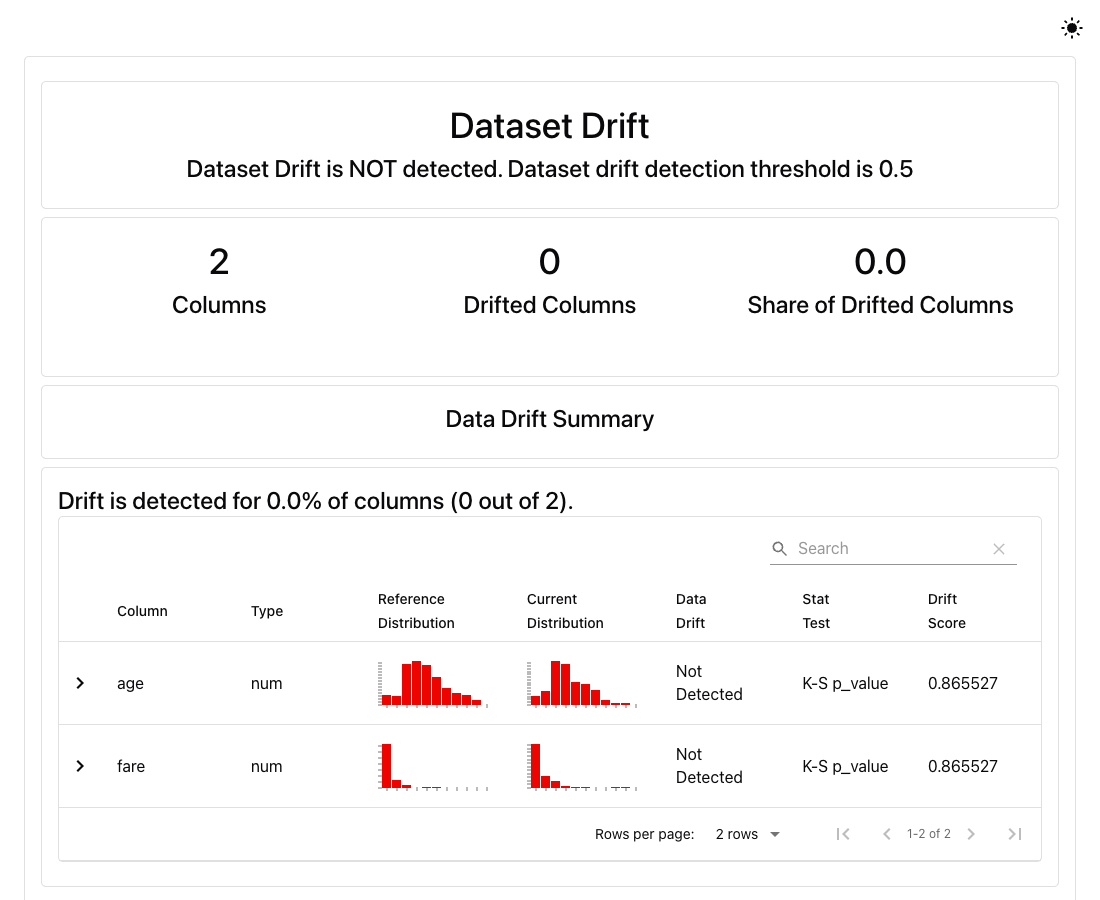
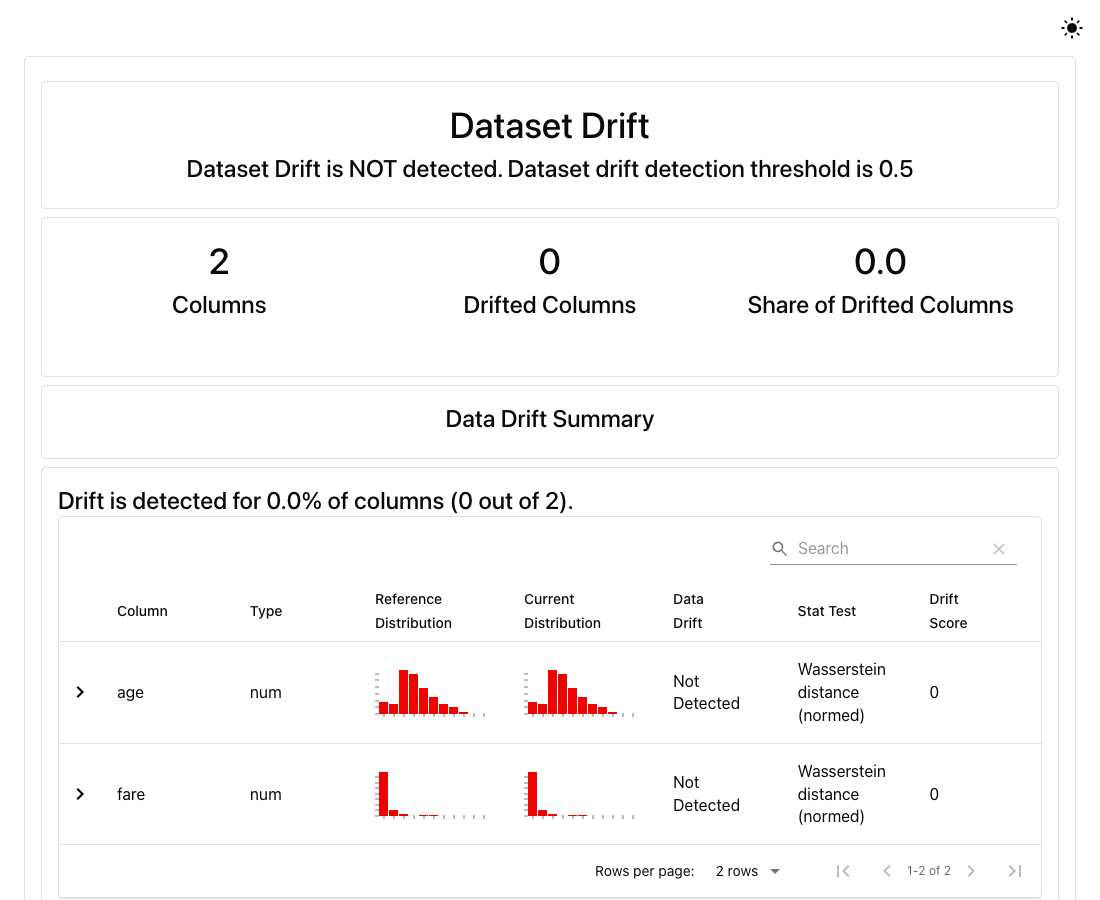
Demonstrate isolated fare drift on the full Titanic dataset

diff --git a/seminar/evidently/quickstart/drift.py b/seminar/evidently/quickstart/drift.py
@@ -1,21 +1,16 @@
-# /// script
-# requires-python = ">=3.11,<3.12"
-# dependencies = ["evidently==0.7.23", "pandas==2.3.3"]
-# ///
-"""Run from the repository root after preparing the Titanic CSV."""
+"""Run from the repository root after downloading the Titanic ARFF."""
 
 from pathlib import Path
 
-import pandas as pd
 from evidently import Report
 from evidently.presets import DataDriftPreset
 
+from src.prepare import read_titanic
+
 
 def main():
-    data = pd.read_csv("data/prepared/titanic.csv", usecols=["fare", "age"])
-    sample = data.dropna().sample(n=400, random_state=42)
-    reference = sample.iloc[:200]
-    current = sample.iloc[200:]
+    reference = read_titanic()[["fare", "age"]]
+    current = reference.copy()
     output = Path("artifacts/evidently")
     output.mkdir(parents=True, exist_ok=True)
 
@@ -23,7 +18,7 @@ def main():
         ("control", current),
         ("shifted", current.assign(fare=current["fare"] + 30)),
     ]:
-        report = Report([DataDriftPreset(num_method="ks", num_threshold=0.05)])
+        report = Report([DataDriftPreset(num_method="wasserstein", num_threshold=0.1)])
         result = report.run(current_data=batch, reference_data=reference)
         result.save_html(str(output / f"{name}.html"))
         print(name, result.json())

diff --git a/seminar/evidently/quickstart/README.md b/seminar/evidently/quickstart/README.md
@@ -22,7 +22,7 @@ Evidently — Python-библиотека для оценки данных и п
 
 ## 3. Как выглядит drift на настоящем отчёте
 
-Берём 400 пассажиров с известными возрастом и тарифом. С фиксированным seed делим их на две непересекающиеся группы по 200. Сначала сравниваем исходные группы. Затем повторяем проверку, прибавив **30 единиц** к каждому `fare` в current. Возраст и состав обеих групп сохраняются. [Рабочий пример](drift.py#L15)
+В мониторинге reference и current часто задаются временем: например, стабильный период и сегодняшняя партия. Для учебного примера на Titanic моделируем изменение сами. Берём всех 1 309 пассажиров и сравниваем две колонки, `fare` и `age`. Reference — исходные данные, current — их копия. После контрольного прогона увеличиваем каждый известный тариф в current на 30. Пассажиры, возраст и пропуски в обеих таблицах совпадают. [Рабочий пример](drift.py#L11)
 
 **До изменения.** В верхней карточке видно **0 из 2** признаков со сдвигом. В таблице ниже можно сверить гистограммы reference и current по каждой колонке.
 
@@ -32,7 +32,7 @@ Evidently — Python-библиотека для оценки данных и п
 
 ![Отчёт Evidently после увеличения fare на 30](shifted.png)
 
-**Почему появился сигнал?** Мы явно выбрали двухвыборочный тест Колмогорова — Смирнова (`ks`) и порог `0.05`. Он сравнивает распределения по накопленным долям наблюдений. В этом методе Drift Score — p-value. Для `fare` он снизился с **0,8655** до **примерно 5,16 × 10⁻⁴⁸**. В интерфейсе последнее значение округлено до нуля. Порог для отдельной колонки пройден при p-value < 0,05. Число **0,5** в заголовке относится к другой проверке — доле колонок со сдвигом. В нашем примере сработала одна из двух. Для других методов смысл Drift Score может отличаться. [Как работает детектор](https://docs.evidentlyai.com/metrics/explainer_drift) · [Методы и пороги](https://docs.evidentlyai.com/metrics/customize_data_drift)
+**Почему появился сигнал?** Для сравнения копий используем нормированное расстояние Вассерштейна. Оно показывает величину различия между распределениями. При сравнении одинаковых значений расстояние равно 0. После прибавления 30 к тарифу расстояние для `fare` составило **0,580** при заданном пороге **0,1**. Для `age` оно осталось равным 0. Число **0,5** в заголовке — порог доли признаков со сдвигом для сигнала по датасету. Сработал один из двух. [Как работает детектор](https://docs.evidentlyai.com/metrics/explainer_drift) · [Методы и пороги](https://docs.evidentlyai.com/metrics/customize_data_drift)
 
 **Как объяснить результат на семинаре?** Распределение тарифов изменилось. В реальном сервисе я бы проверил единицы тарифа и долю пассажиров каждого класса. Чтобы выяснить, повлиял ли сдвиг на качество модели, нужны прогнозы и соответствующие фактические исходы.
 
@@ -42,11 +42,11 @@ Evidently — Python-библиотека для оценки данных и п
 
 ```bash
 uv sync --locked
-uv run dvc repro
-uv run --script seminar/evidently/quickstart/drift.py
+uv run --locked python -m src.get_data
+uv run --locked --with 'evidently==0.7.23' python -m seminar.evidently.quickstart.drift
 ```
 
-Первая команда устанавливает окружение проекта. Вторая готовит CSV Titanic текущей версии проекта (`data-v2`, 654 строки). Третья запускает пример в отдельном окружении с Evidently 0.7.23. При первом запуске нужен интернет для загрузки данных и пакетов. Открой в браузере `artifacts/evidently/control.html`, затем `artifacts/evidently/shifted.html`. В терминале выводятся значения с полной точностью. [Официальный пример для табличных данных](https://docs.evidentlyai.com/quickstart_ml)
+Первая команда устанавливает окружение проекта. Вторая скачивает полный Titanic с OpenML. Третья запускает пример с Evidently 0.7.23. При первом запуске нужен интернет для загрузки данных и пакетов. Открой в браузере `artifacts/evidently/control.html`, затем `artifacts/evidently/shifted.html`. В терминале выводятся значения с полной точностью. [Официальный пример для табличных данных](https://docs.evidentlyai.com/quickstart_ml)
 
 ## 5. Что ещё умеет Evidently
 
